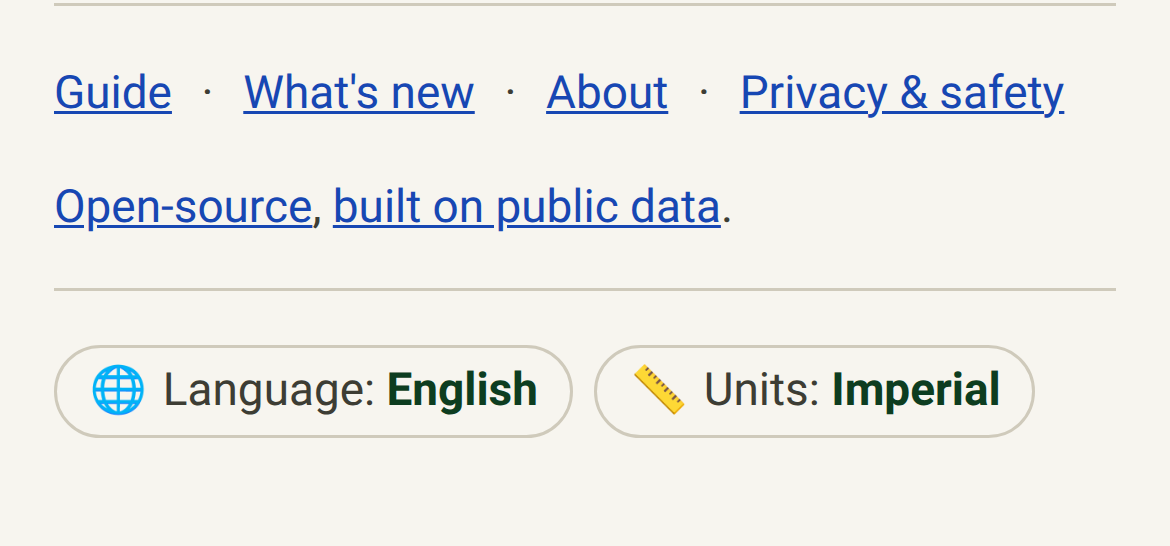
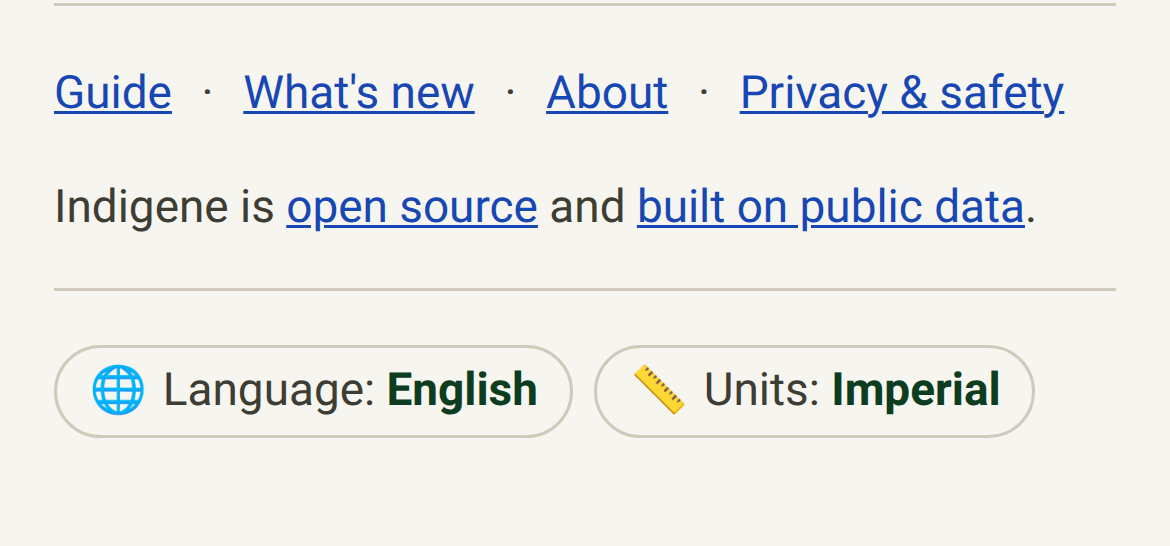
Footer: "Indigene is open source and built on public data"
Reword the provenance line to a full sentence: "Indigene is open source
and built on public data", with "open source" linking to the repository
and "built on public data" to the sources page. Both languages.

Claude-Session: https://claude.ai/code/session_01NJkvxLF2GP7CnC1CJV1f2y

Changed region(s): [[0.0308, 0.3425, 0.8923, 0.4359]]

diff --git a/app/index.html b/app/index.html
@@ -198,8 +198,8 @@
         <a href="#/privacy">Privacy &amp; safety</a>
       </nav>
       <p id="footer-text">
-        <a href="https://github.com/olivierlacan/indigene">Open-source</a>,
-        <a href="#/sources">built on public data</a>.
+        Indigene is <a href="https://github.com/olivierlacan/indigene">open source</a>
+        and <a href="#/sources">built on public data</a>.
       </p>
       <!-- Language & units — two links, because they are two settings. Written
            as one "English · Imperial" line they read as a single "locale"

diff --git a/app/src/locales/fr.ts b/app/src/locales/fr.ts
@@ -49,8 +49,8 @@ export const fr: Dict = {
   "pullToReload.release": "Relâchez pour recharger",
   "pullToReload.reloading": "Rechargement…",
   "footer.text":
-    "{repo}, {sources}.",
-  "footer.repo": "Libre",
+    "Indigene est {repo} et {sources}.",
+  "footer.repo": "libre",
   "footer.about": "À propos",
   "footer.sources": "bâti sur des données publiques",
   "footer.guide": "Guide",

diff --git a/app/src/locales/en.ts b/app/src/locales/en.ts
@@ -53,8 +53,8 @@ export const en = {
   "pullToReload.release": "Release to reload",
   "pullToReload.reloading": "Reloading…",
   "footer.text":
-    "{repo}, {sources}.",
-  "footer.repo": "Open-source",
+    "Indigene is {repo} and {sources}.",
+  "footer.repo": "open source",
   "footer.about": "About",
   "footer.sources": "built on public data",
   "footer.guide": "Guide",
